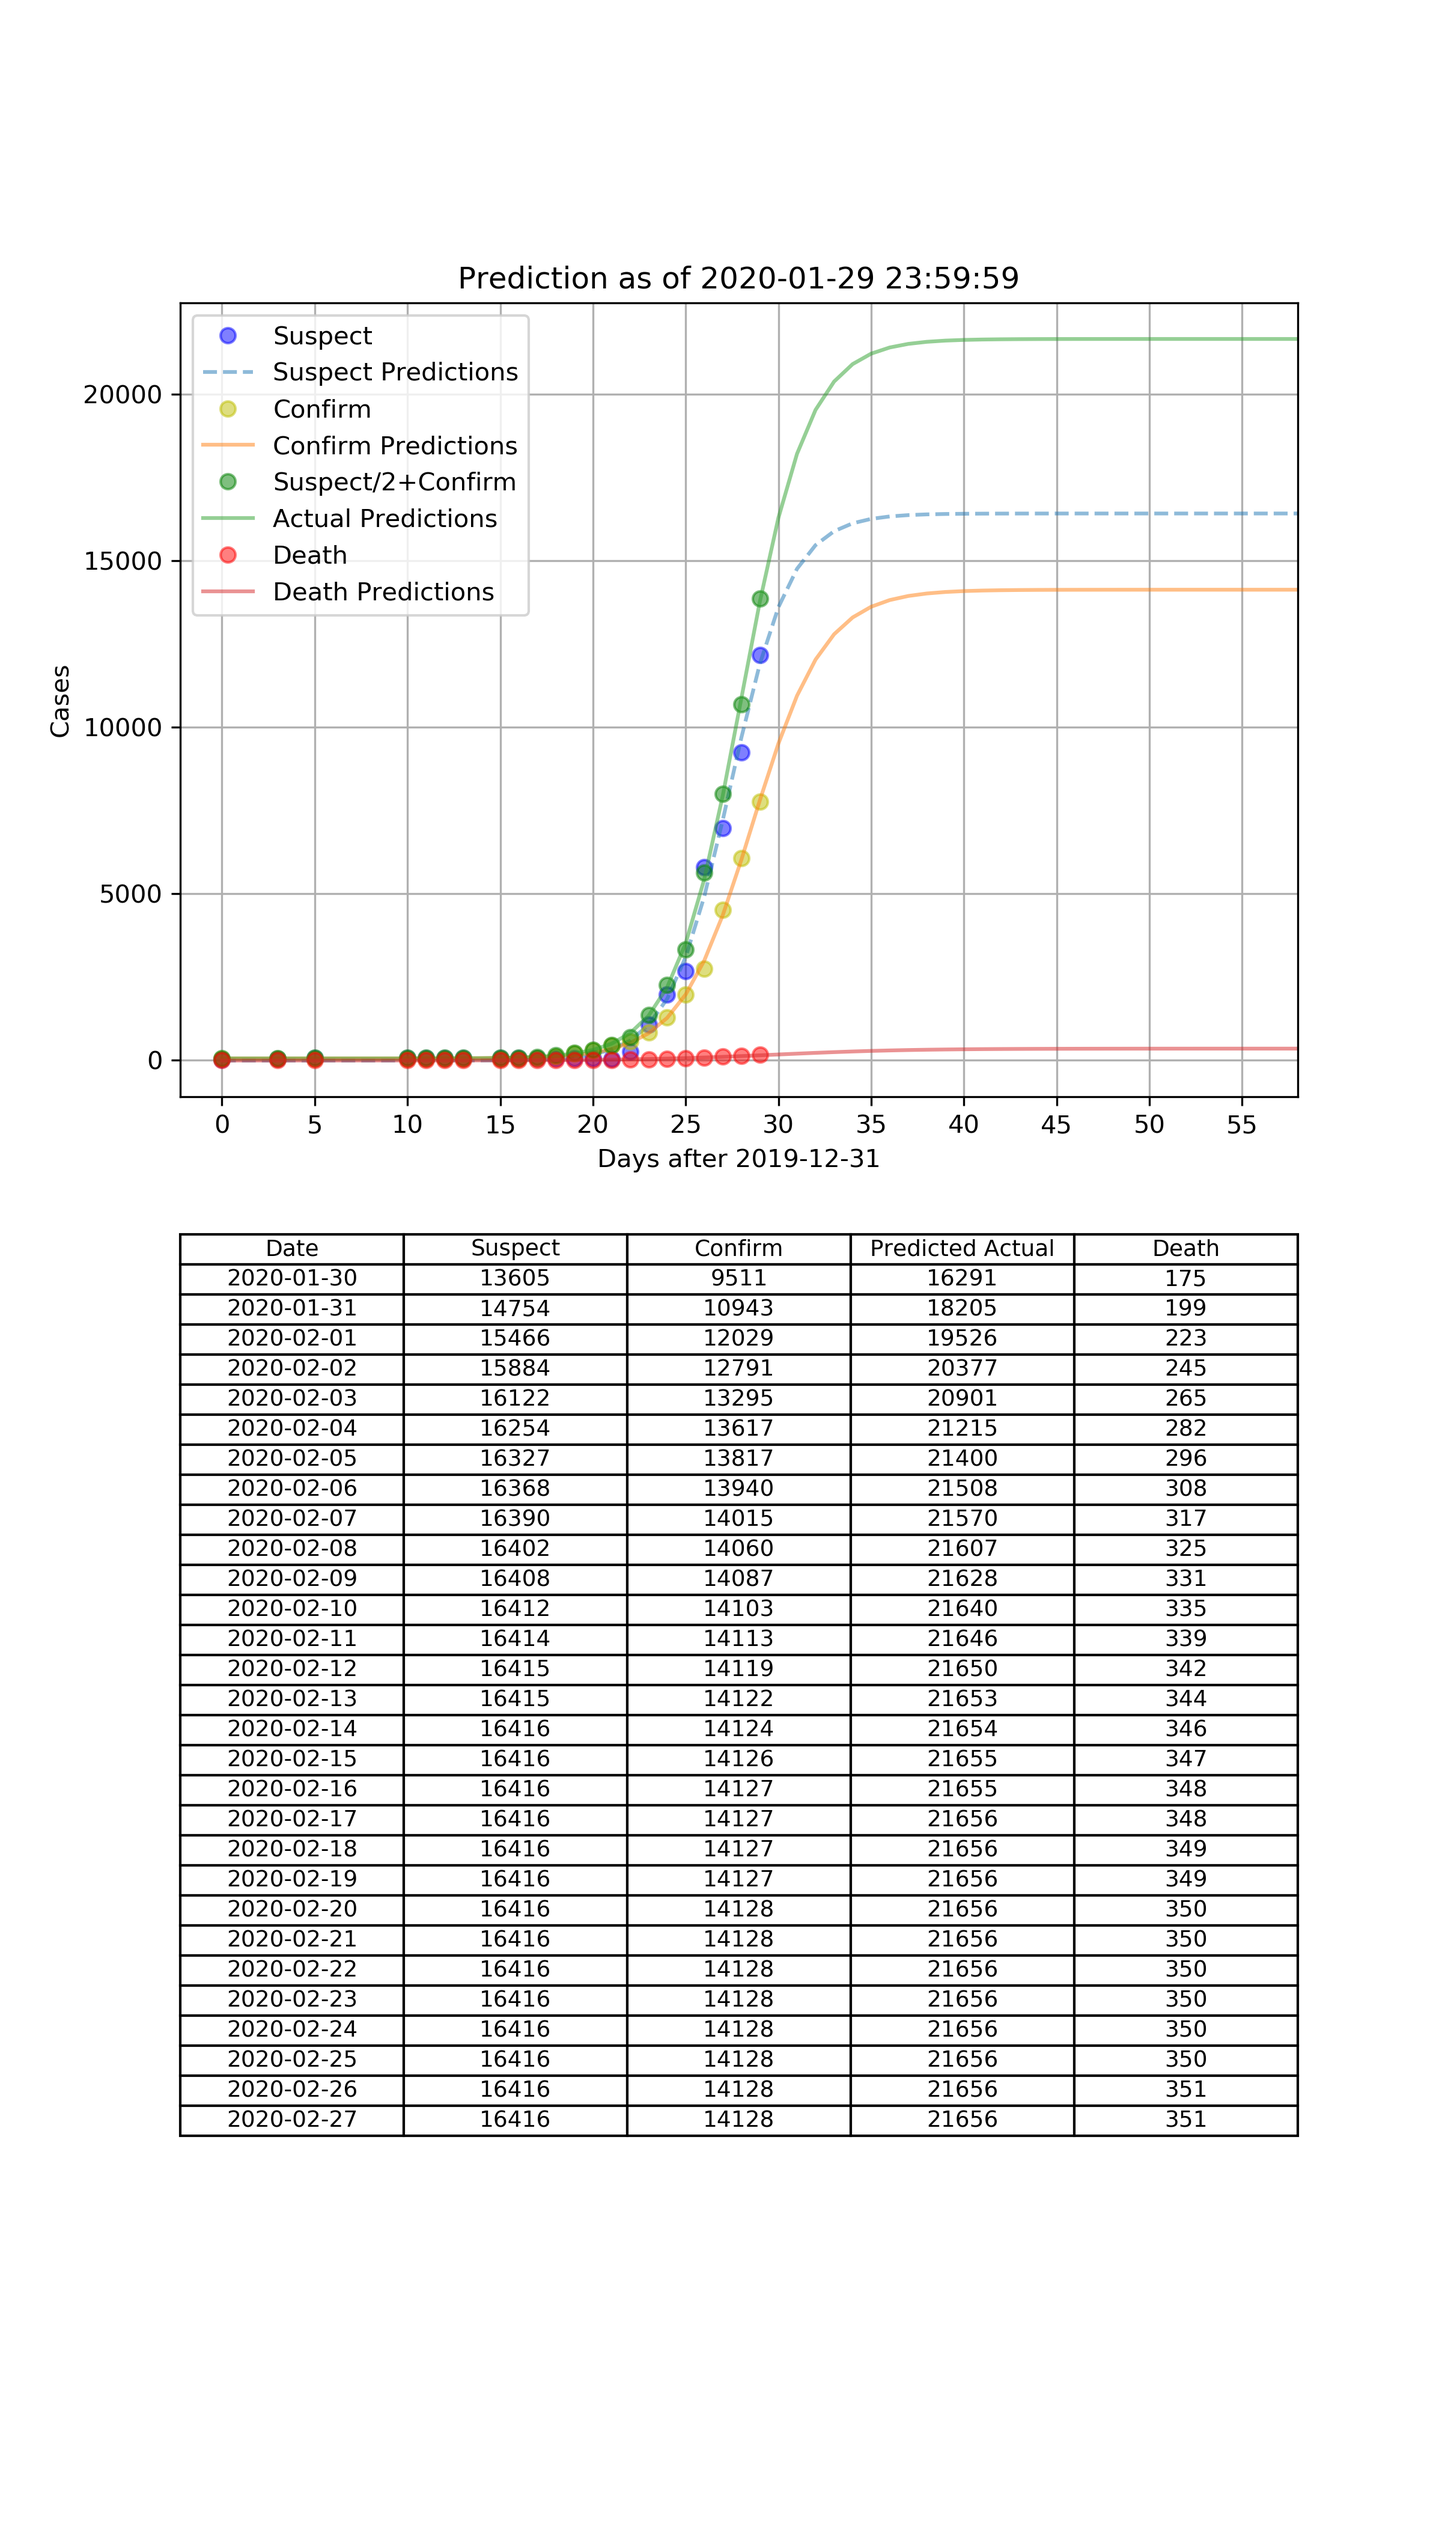
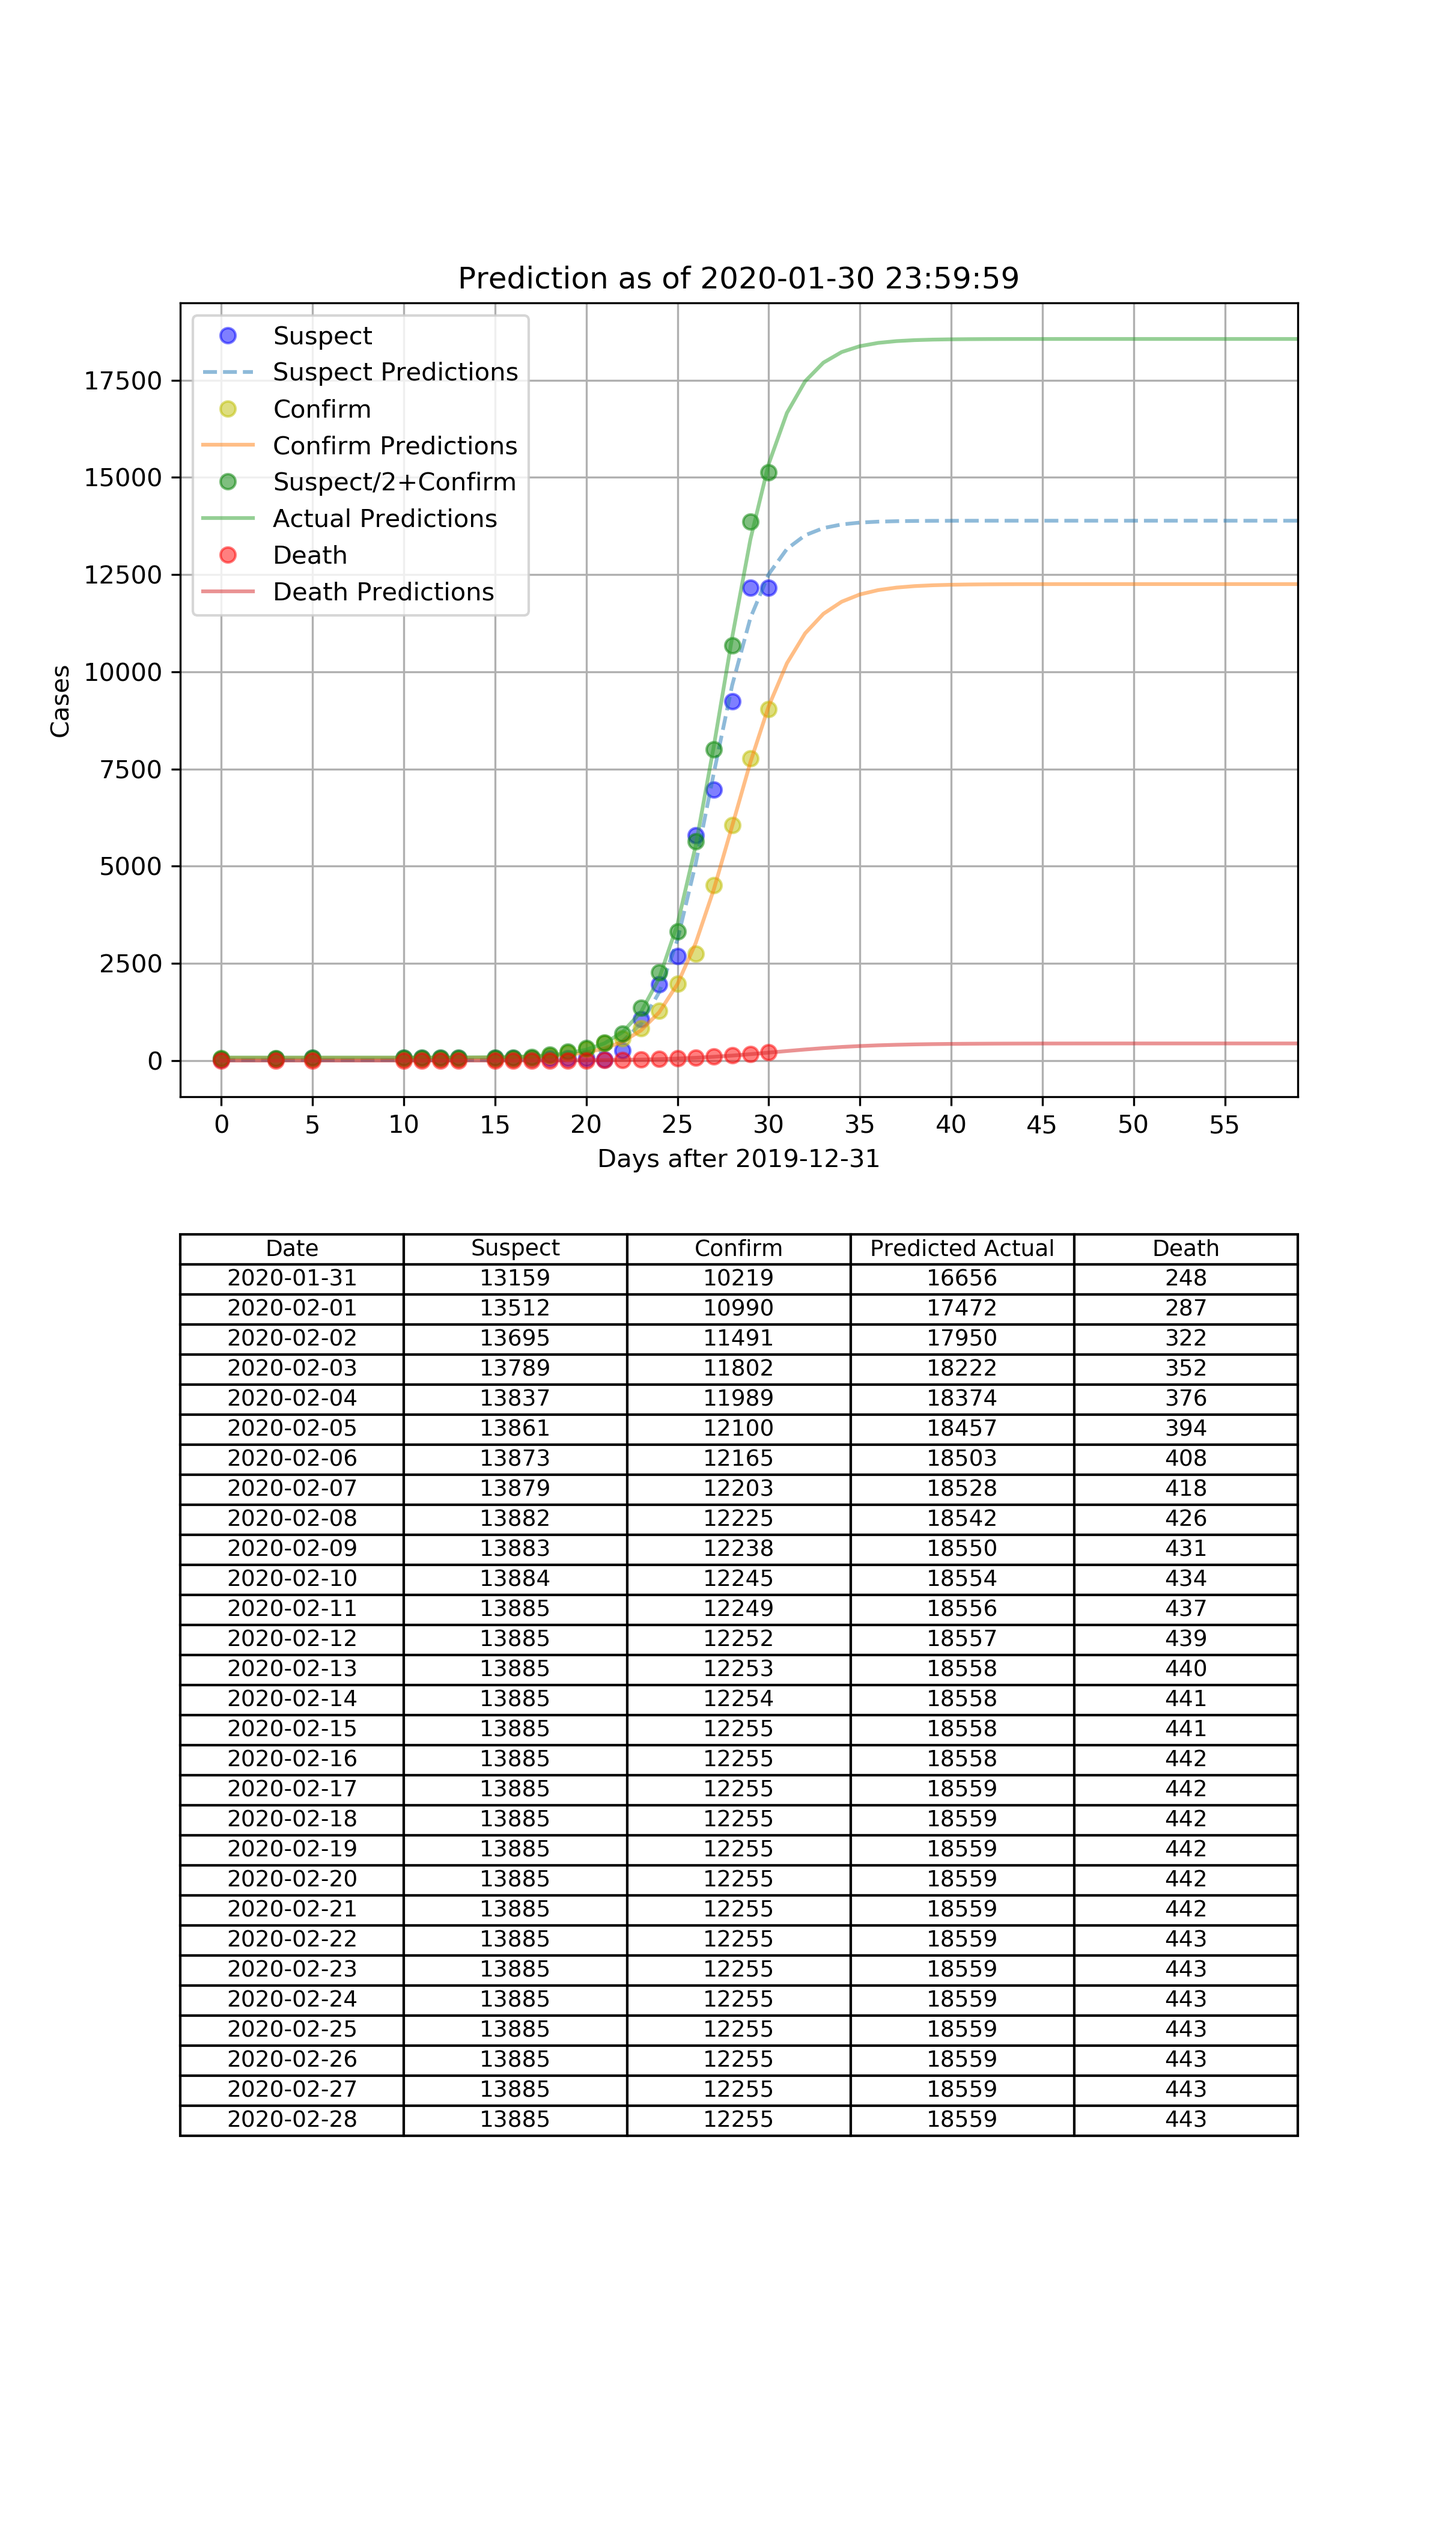
update 2020-01-28

diff --git a/2019_nCoV.py b/2019_nCoV.py
@@ -94,7 +94,7 @@ def trainModel(model, X, y):
 sModel = SigmoidRegression(Ys[0][-1], 27, 1, today_days + 1)
 cModel = SigmoidRegression(Ys[1][-1], 41, 1, today_days + 1)
 scModel = SigmoidRegression((Ys[0] / 2 + Ys[1])[-1], 55, 1, today_days + 1)
-dModel = SigmoidRegression(Ys[2][-1], 0, 0.2, today_days + 1)
+dModel = SigmoidRegression(Ys[2][-1], 0, 0.4, today_days + 1)
 
 trainModel(sModel, X, np.array(Ys[0], dtype=np.float32))
 trainModel(cModel, X, np.array(Ys[1], dtype=np.float32))
@@ -114,50 +114,55 @@ with torch.no_grad():  # we don't need gradients in the testing
         dP.append(dModel(torch.from_numpy(np.array([i])).to(device)).cpu().data.numpy().item())
 
 
-plt.clf()
-plt.rcParams['figure.figsize'] = [8, 14]
+def graph():
+    plt.clf()
+    plt.rcParams['figure.figsize'] = [8, 14]
 
-gs = plt.GridSpec(nrows=12, ncols=1)
-axs = [None, None]
-axs[0] = plt.subplot(gs[:5, :])
-axs[1] = plt.subplot(gs[5:, :])
+    gs = plt.GridSpec(nrows=12, ncols=1)
+    axs = [None, None]
+    axs[0] = plt.subplot(gs[:5, :])
+    axs[1] = plt.subplot(gs[5:, :])
 
-axs[0].title.set_text('Prediction as of {}'.format(str(today_date + timedelta(hours=23, minutes=59, seconds=59))))
+    axs[0].title.set_text('Prediction as of {}'.format(str(today_date + timedelta(hours=23, minutes=59, seconds=59))))
 
-collabel = ("Date", "Suspect", "Confirm", "Predicted Actual", "Death")
-axs[1].axis('tight')
-axs[1].axis('off')
-the_table = axs[1].table(
-    cellText=np.array([[str((init_date + timedelta(days=i)).date()) for i in range(today_days + 30)],
-                       np.round(spredicted).astype(int),
-                       np.round(cpredicted).astype(int),
-                       np.round(scP).astype(int),
-                       np.round(dP).astype(int)], dtype=str).transpose()
-    [today_days + 1: today_days + 31],
-    colLabels=collabel,
-    cellLoc='center',
-    loc='center')
+    collabel = ("Date", "Suspect", "Confirm", "Predicted Actual", "Death")
+    axs[1].axis('tight')
+    axs[1].axis('off')
+    the_table = axs[1].table(
+        cellText=np.array([[str((init_date + timedelta(days=i)).date()) for i in range(today_days + 30)],
+                           np.round(spredicted).astype(int),
+                           np.round(cpredicted).astype(int),
+                           np.round(scP).astype(int),
+                           np.round(dP).astype(int)], dtype=str).transpose()
+        [today_days + 1: today_days + 31],
+        colLabels=collabel,
+        cellLoc='center',
+        loc='center')
 
-axs[0].set_xlabel('Days after 2019-12-31')
-axs[0].set_ylabel('Cases')
+    axs[0].set_xlabel('Days after 2019-12-31')
+    axs[0].set_ylabel('Cases')
 
-axs[0].plot(X, Ys[0], 'bo', label='Suspect', alpha=0.5)
-axs[0].plot(np.arange(today_days + 30), spredicted, '--', label='Suspect Predictions', alpha=0.5)
+    axs[0].plot(X, Ys[0], 'bo', label='Suspect', alpha=0.5)
+    axs[0].plot(np.arange(today_days + 30), spredicted, '--', label='Suspect Predictions', alpha=0.5)
 
-axs[0].plot(X, Ys[1], 'yo', label='Confirm', alpha=0.5)
-axs[0].plot(np.arange(today_days + 30), cpredicted, '-', label='Confirm Predictions', alpha=0.5)
+    axs[0].plot(X, Ys[1], 'yo', label='Confirm', alpha=0.5)
+    axs[0].plot(np.arange(today_days + 30), cpredicted, '-', label='Confirm Predictions', alpha=0.5)
 
-axs[0].plot(X, Ys[0] / 2 + Ys[1], 'go', label='Suspect/2+Confirm', alpha=0.5)
-axs[0].plot(np.arange(today_days + 30), scP, '-', label='Actual Predictions', alpha=0.5)
+    axs[0].plot(X, Ys[0] / 2 + Ys[1], 'go', label='Suspect/2+Confirm', alpha=0.5)
+    axs[0].plot(np.arange(today_days + 30), scP, '-', label='Actual Predictions', alpha=0.5)
 
-axs[0].plot(X, Ys[2], 'ro', label='Death', alpha=0.5)
-axs[0].plot(np.arange(today_days + 30), dP, '-', label='Death Predictions', alpha=0.5)
+    axs[0].plot(X, Ys[2], 'ro', label='Death', alpha=0.5)
+    axs[0].plot(np.arange(today_days + 30), dP, '-', label='Death Predictions', alpha=0.5)
 
-axs[0].set_xlim(-2.25, today_days + 29)
-axs[0].set_xticks(np.arange(today_days + 30, step=5))
+    axs[0].set_xlim(-2.25, today_days + 29)
+    axs[0].set_xticks(np.arange(today_days + 30, step=5))
 
-axs[0].grid()
-axs[0].legend(loc='best')
+    axs[0].grid()
+    axs[0].legend(loc='best')
 
-plt.savefig('prediction.png', dpi=300)
-plt.show()
+    plt.savefig('prediction.png', dpi=300)
+    plt.show()
+
+
+graph()
+graph()
